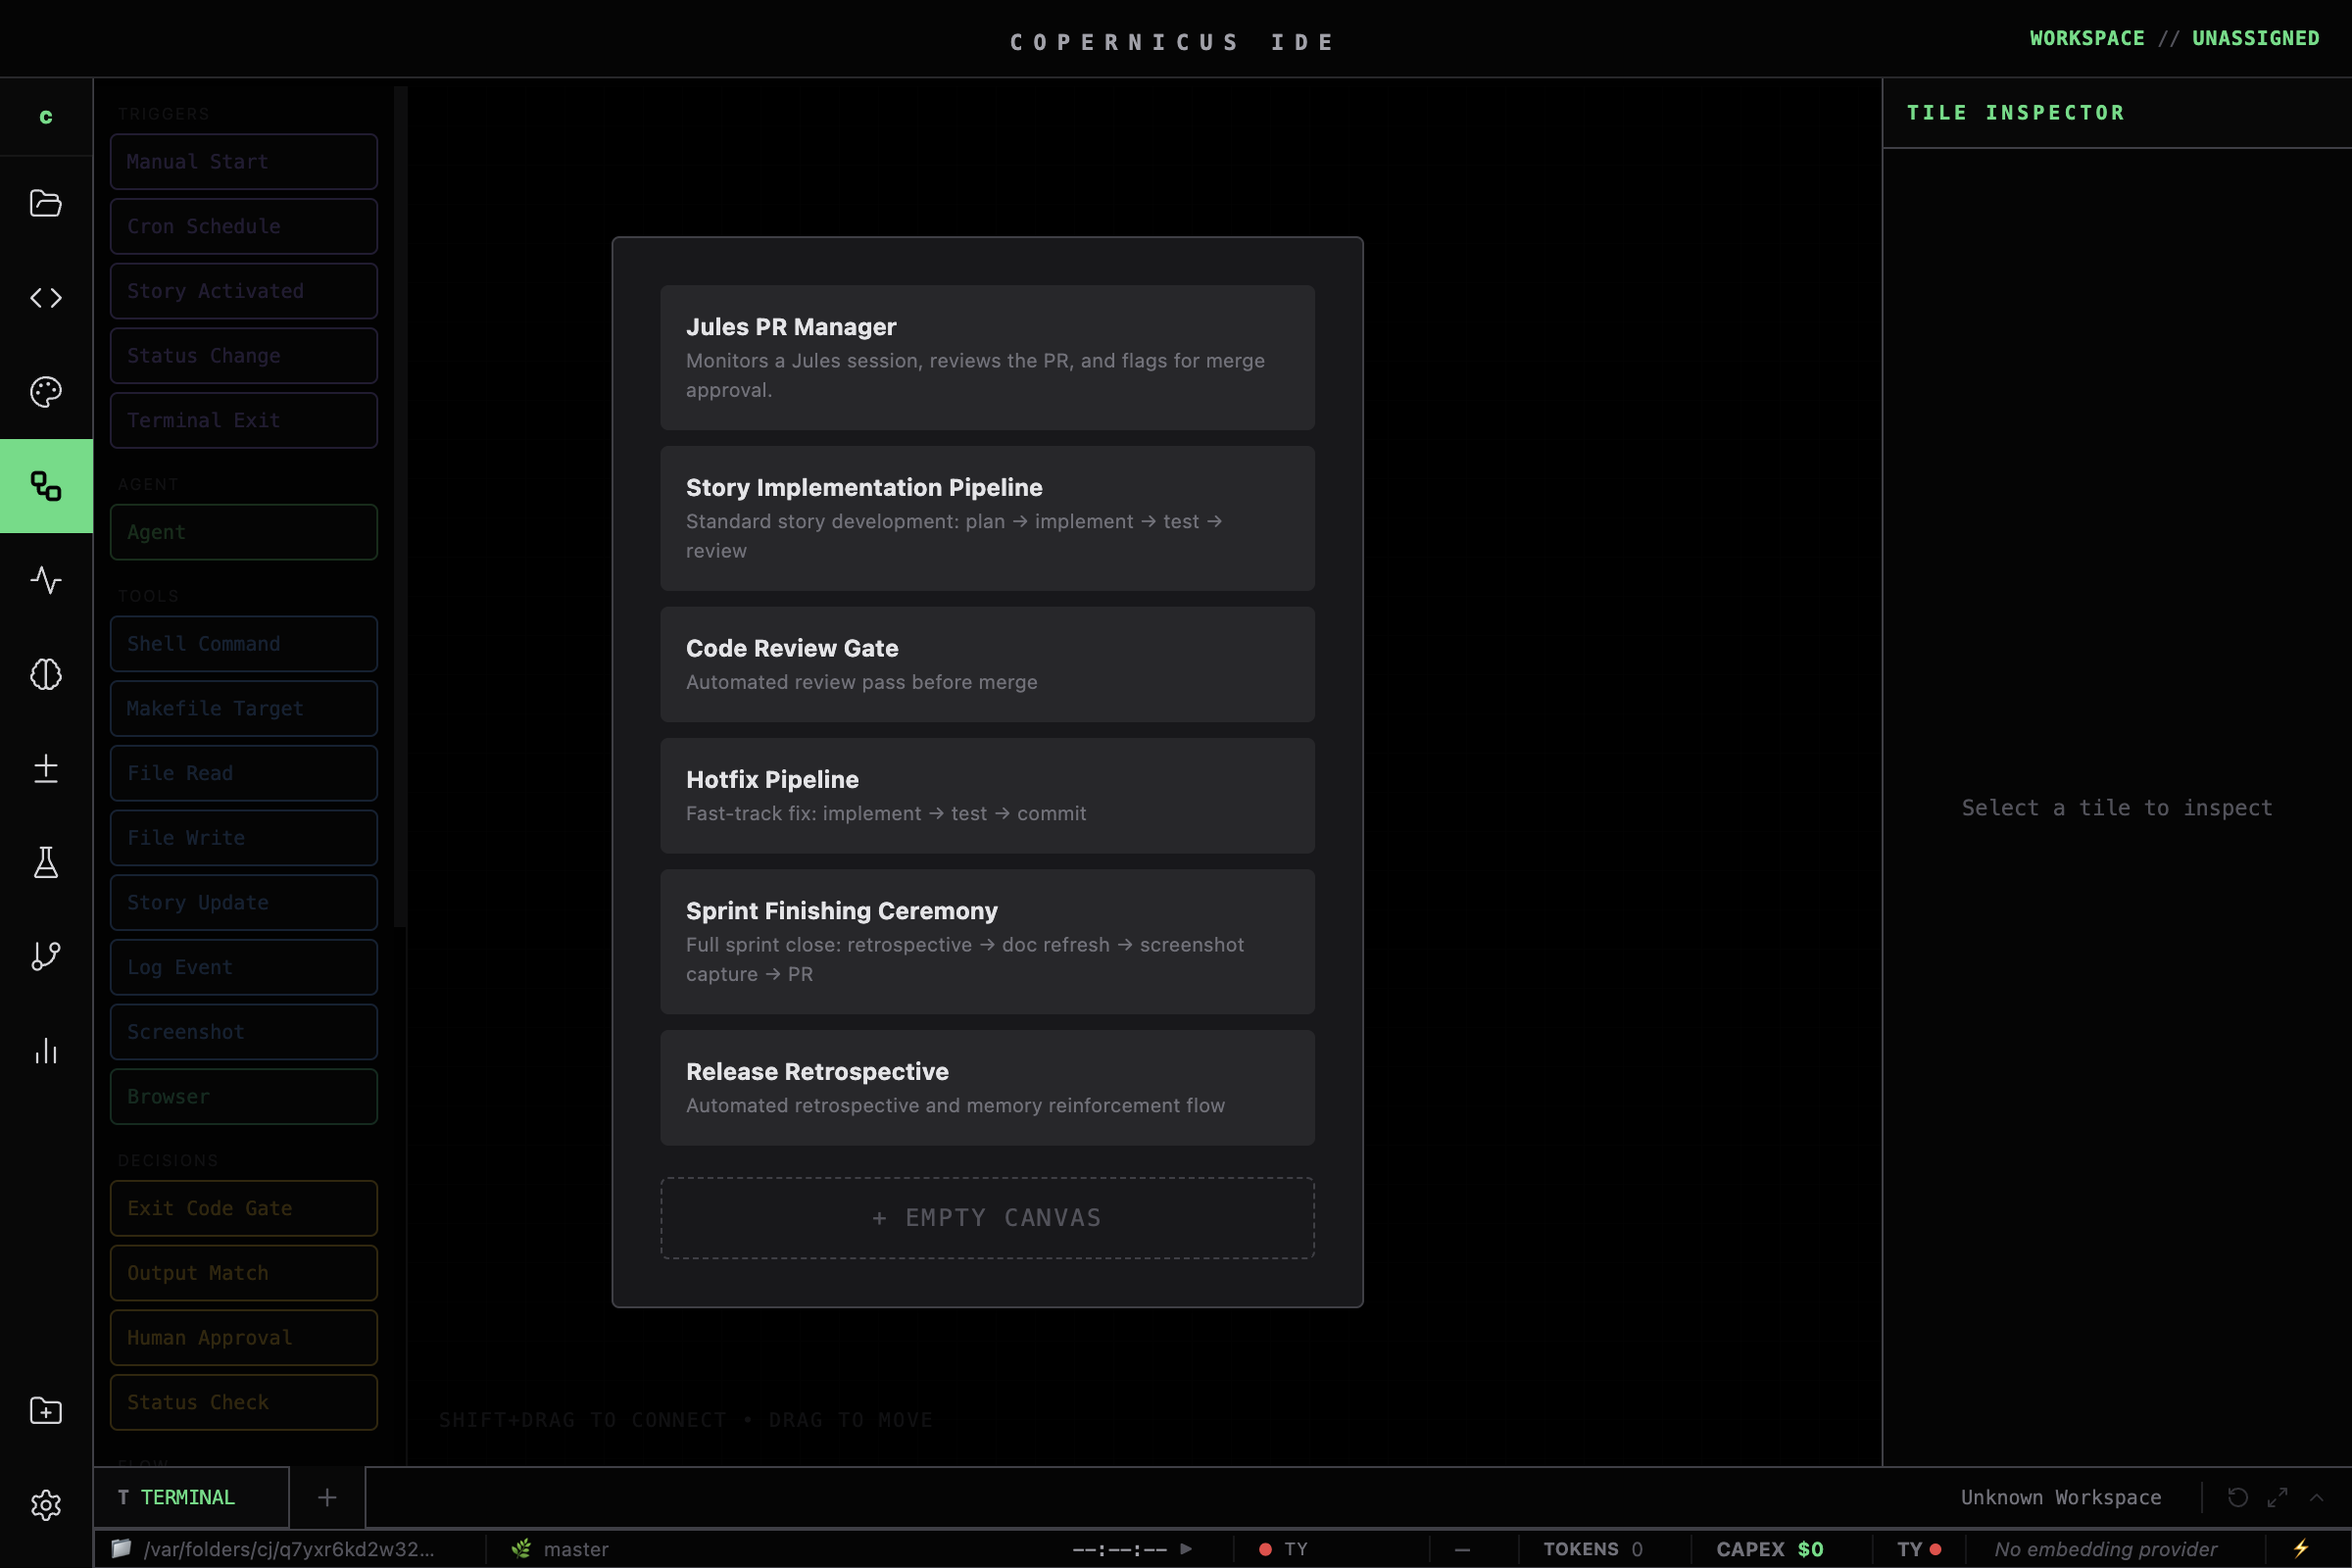
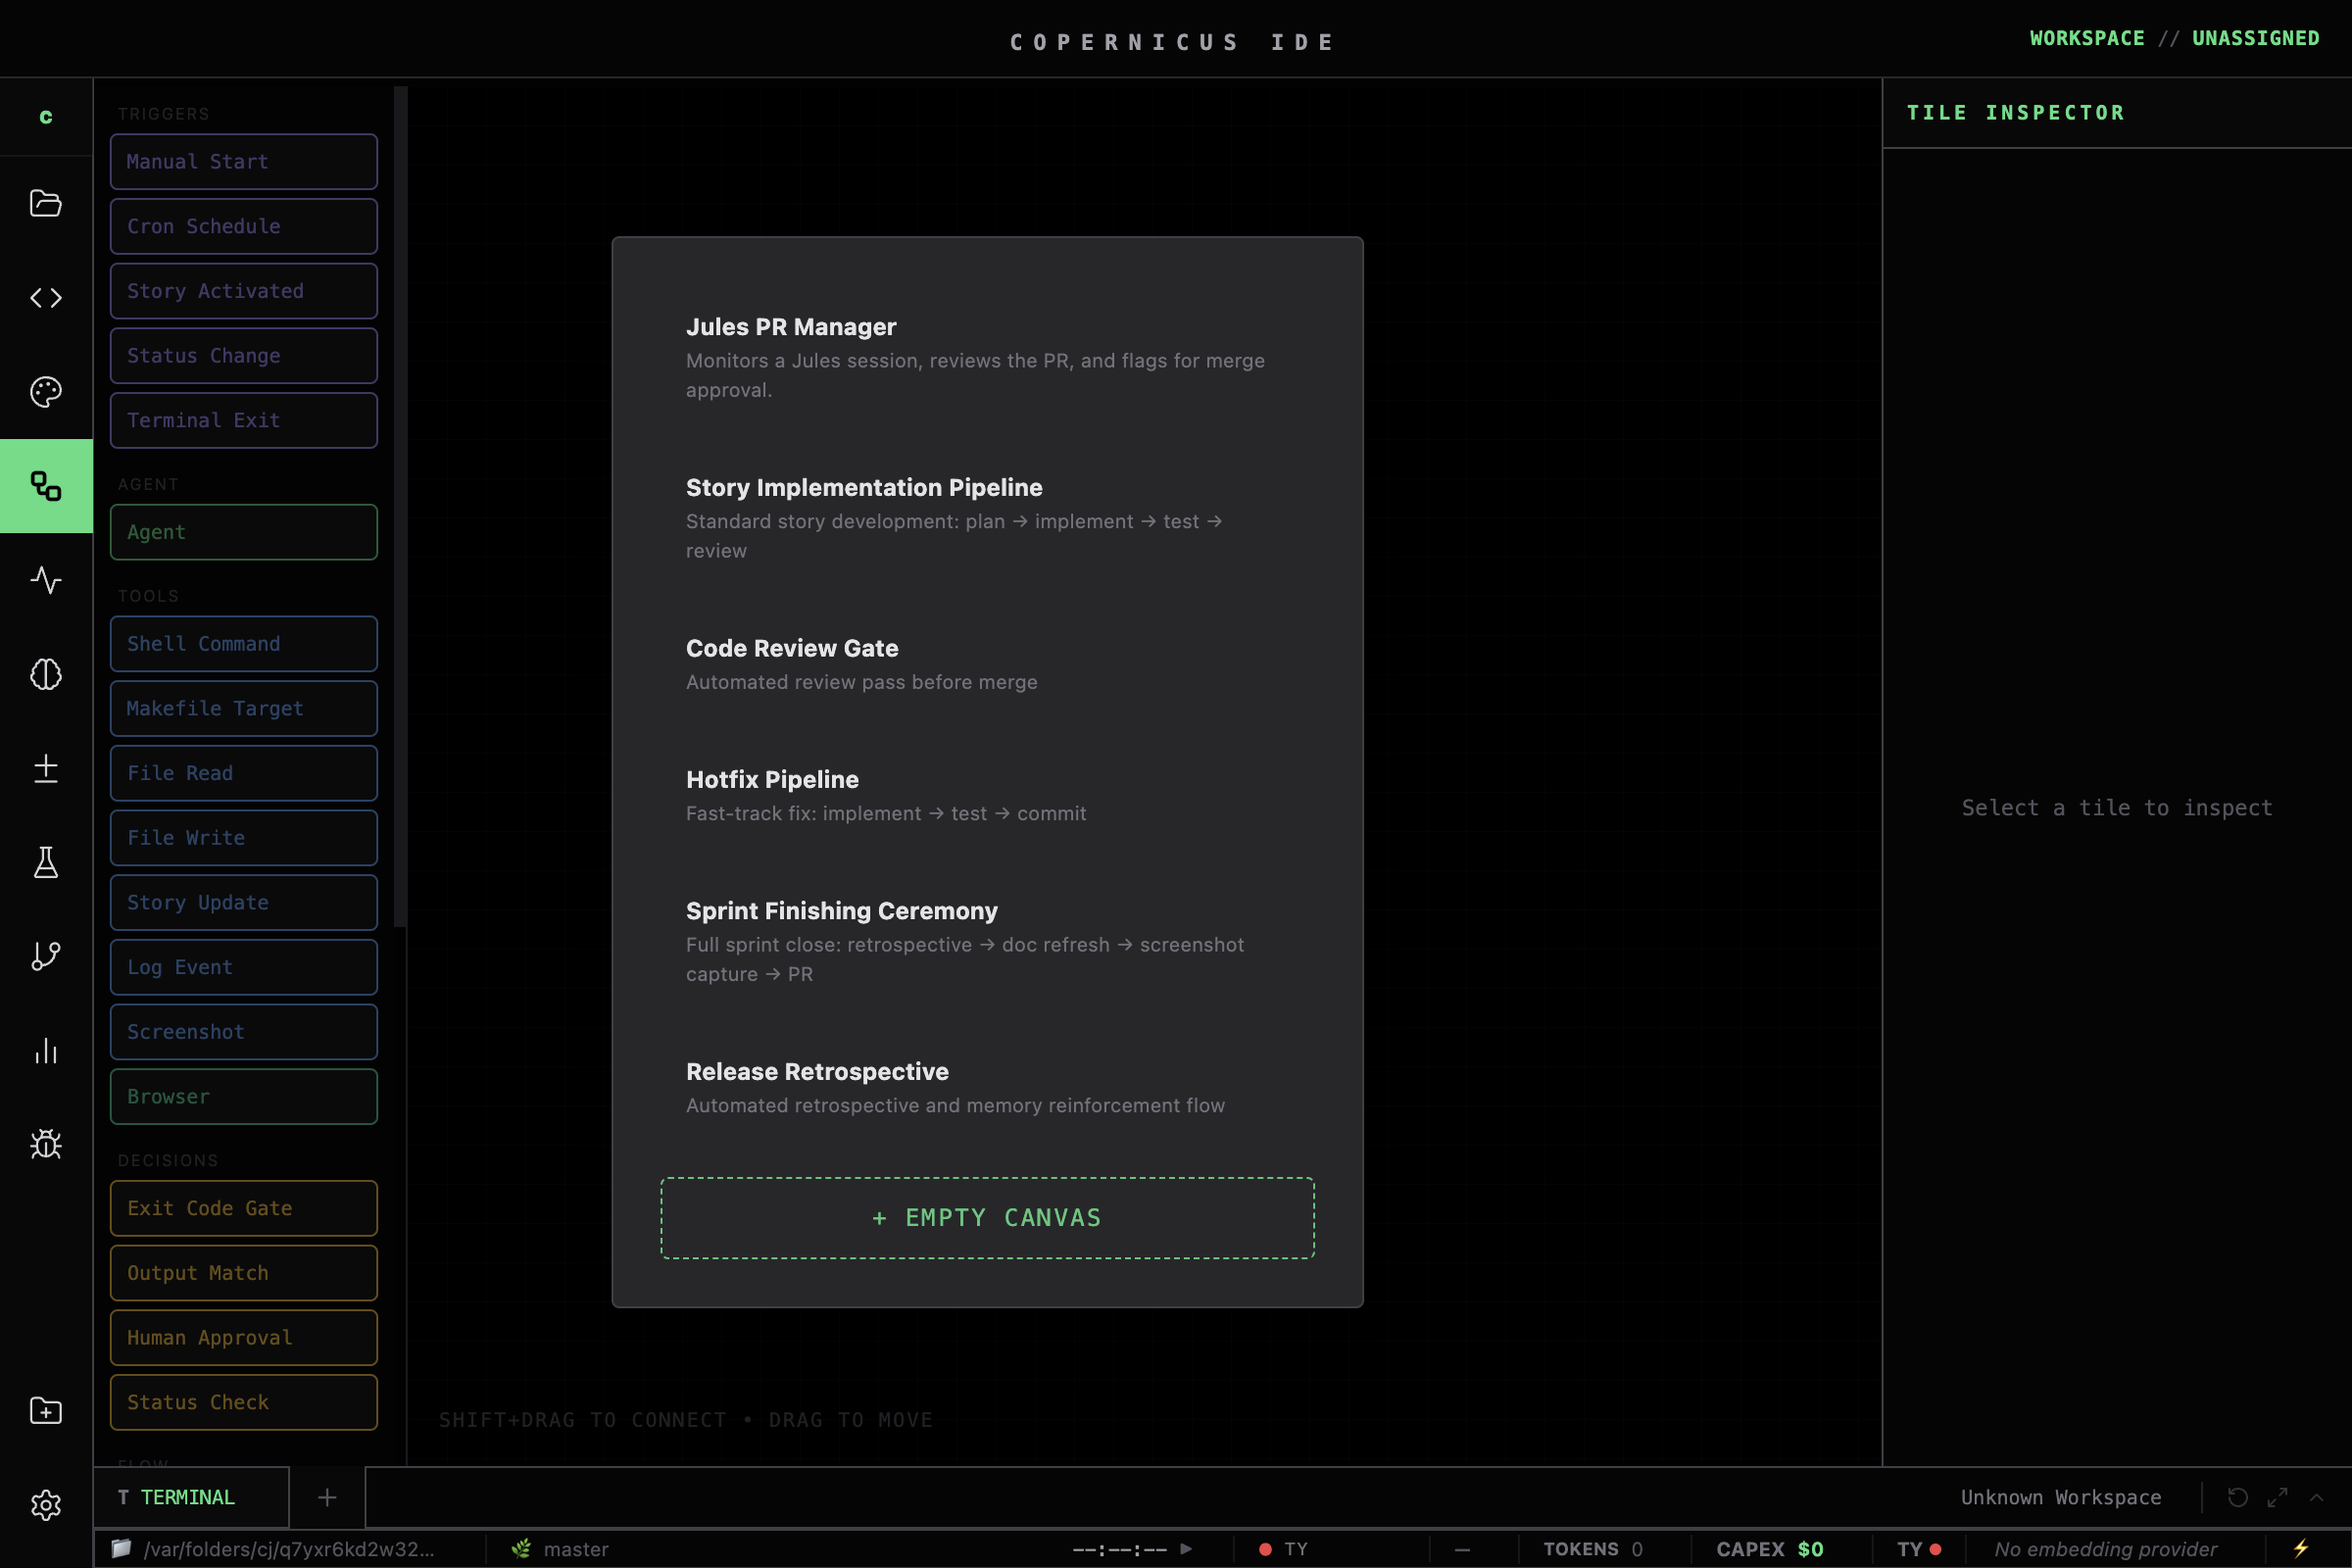
feat(planner): promote Intelligence Manager to INTEL action bar button
- Add agentsOpen/setAgentsOpen to layout store
- Render IntelligenceManager as full-screen overlay in App.tsx (z-200, above settings)
- Replace storyboarding lane card with Glasses + INTEL button in Planner action bar
- Remove local activeView state from KanbanBoard
- Refresh all help screenshots

diff --git a/copernicus/src/renderer/components/kanban/KanbanBoard.tsx b/copernicus/src/renderer/components/kanban/KanbanBoard.tsx
@@ -5,7 +5,7 @@ import { useIpcError } from '../../hooks/useIpcError'
 import { useIpcCache } from '../../hooks/useIpcCache'
 import { useLayoutStore } from '../../store/layout'
 import { useToastStore } from '../../store/toastStore'
-import { Crown, Lock, ChevronDown, ChevronUp, Archive, Brain, Bug, Plus, Zap } from 'lucide-react'
+import { Crown, Lock, ChevronDown, ChevronUp, Archive, Brain, Bug, Plus, Zap, Glasses } from 'lucide-react'
 import log from '../../utils/logger'
 import { unwrapIpc } from '../../types/ipc'
 import { StoryInspector } from '../planning/StoryInspector'
@@ -13,7 +13,6 @@ import { stripStoryPrefix } from '../../utils/storyTitle'
 import { TEMPLATE_MANIFEST } from '../../templates'
 import { RetroCard } from './RetroCard'
 import { RetroReviewPanel } from './RetroReviewPanel'
-import { IntelligenceManager } from '../intelligence/IntelligenceManager'
 import { SkillOnboardingModal } from '../skills/SkillOnboardingModal'
 import { CardSpotlight } from './CardSpotlight'
 
@@ -220,7 +219,7 @@ export const KanbanBoard = React.memo(({ onStartSession }: KanbanBoardProps) => 
   
   const [activeRetroCard, setActiveRetroCard] = useState<any | null>(null)
   const [additionalPendingCount, setAdditionalPendingCount] = useState(0)
-  const [activeView, setView] = useState<'planner' | 'intelligence'>('planner')
+  const setAgentsOpen = useLayoutStore(s => s.setAgentsOpen)
   const [onboardingStackProfile, setOnboardingStackProfile] = useState<any | null>(null)
   const [showSkillModal, setShowSkillModal] = useState(false)
   const [isSkillOnboardingDismissed, setIsSkillOnboardingDismissed] = useState(false)
@@ -432,6 +431,13 @@ export const KanbanBoard = React.memo(({ onStartSession }: KanbanBoardProps) => 
           >
             <Brain size={10} />
             Run Retrospective
+          </button>
+          <button
+            onClick={() => setAgentsOpen(true)}
+            className="flex items-center gap-1.5 text-[8px] font-bold uppercase tracking-widest text-zinc-600 hover:text-copernicus-phosphor transition-colors"
+          >
+            <Glasses size={10} />
+            Intel
           </button>
         </div>
       </div>
@@ -663,23 +669,6 @@ export const KanbanBoard = React.memo(({ onStartSession }: KanbanBoardProps) => 
                       />
                     ))}
                     
-                    {/* Intelligence Card in Storyboarding (Blueprint) column */}
-                    {col.id === 'storyboarding' && (
-                      <div className="mt-4 border-t border-white/5 pt-4">
-                        <motion.div
-                          onClick={() => setView('intelligence' as any)}
-                          className="p-3 bg-zinc-900/50 border border-indigo-500/30 rounded cursor-pointer transition-all hover:border-indigo-400 focus:outline-none focus:ring-2 focus:ring-indigo-500 overflow-hidden"
-                        >
-                          <div className="flex items-center gap-2">
-                            <Brain size={12} className="text-indigo-400 shrink-0" />
-                            <span className="text-[11px] font-medium leading-tight transition-colors text-indigo-300">Intelligence Manager</span>
-                          </div>
-                          <div className="mt-2 flex items-center gap-1.5 border-t border-white/5 pt-2">
-                            <span className="text-[7px] font-mono text-zinc-500 uppercase tracking-widest">Manage Instructions & Rules</span>
-                          </div>
-                        </motion.div>
-                      </div>
-                    )}
                   </div>
 
                 </>
@@ -689,12 +678,6 @@ export const KanbanBoard = React.memo(({ onStartSession }: KanbanBoardProps) => 
         })}
       </div>
       
-      {activeView === 'intelligence' && (
-        <div className="absolute inset-0 z-[100] bg-black">
-          <IntelligenceManager onClose={() => setView('planner')} />
-        </div>
-      )}
-
       {showSkillModal && onboardingStackProfile && (
         <SkillOnboardingModal
           stackProfile={onboardingStackProfile}

diff --git a/copernicus/src/renderer/App.tsx b/copernicus/src/renderer/App.tsx
@@ -28,6 +28,7 @@ import { CommandPalette } from './components/layout/CommandPalette'
 import { commandRegistry } from './store/commandRegistry'
 import Wizard from './components/wizard/Wizard'
 import GenesisWizard from './components/genesis/GenesisWizard'
+import { IntelligenceManager } from './components/intelligence/IntelligenceManager'
 import SplashScreen from './components/layout/SplashScreen'
 import { CRTOverlay } from './components/effects/CRTOverlay'
 import { ContainerViewer } from './components/runtime/ContainerViewer'
@@ -128,6 +129,8 @@ export default function App() {
   const hasCompletedTour = useLayoutStore(s => s.hasCompletedTour)
   const tourHighlight = useLayoutStore(s => s.tourHighlight)
   const settingsOpen = useLayoutStore(s => s.settingsOpen)
+  const agentsOpen = useLayoutStore(s => s.agentsOpen)
+  const setAgentsOpen = useLayoutStore(s => s.setAgentsOpen)
 
   const capexSessionTime = useTelemetryStore(s => s.capexSessionTime)
   const capexTotal = useTelemetryStore(s => s.capexTotal)
@@ -599,6 +602,11 @@ export default function App() {
       </div>
 
       {/* Overlays */}
+      {agentsOpen && (
+        <div className="absolute inset-0 z-[200] bg-[#050505]">
+          <IntelligenceManager onClose={() => setAgentsOpen(false)} />
+        </div>
+      )}
       {settingsOpen && <SettingsPanel onClose={() => setSettingsOpen(false)} />}
       <CommandPalette
         open={commandPaletteOpen}

diff --git a/copernicus/src/renderer/store/layout.ts b/copernicus/src/renderer/store/layout.ts
@@ -188,6 +188,10 @@ stitchTokens: { fonts: string[], colors: string[], spacing: string[] } | null
   showGenesis: boolean
   setShowGenesis: (show: boolean) => void
 
+  // Intelligence Manager (Agents)
+  agentsOpen: boolean
+  setAgentsOpen: (v: boolean) => void
+
   // Basement Archive
   basementOpen: boolean
   setBasementOpen: (open: boolean) => void
@@ -411,6 +415,9 @@ stitchTokens: null,
 
       showGenesis: false,
       setShowGenesis: (show) => set({ showGenesis: show }),
+
+      agentsOpen: false,
+      setAgentsOpen: (v) => set({ agentsOpen: v }),
 
       basementOpen: false,
       setBasementOpen: (open) => set({ basementOpen: open }),
